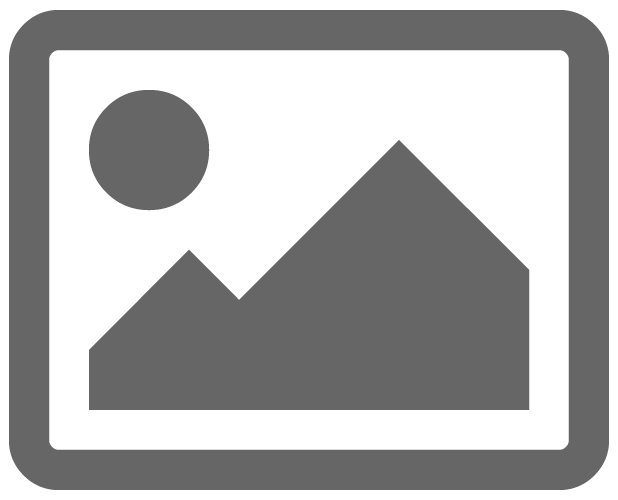
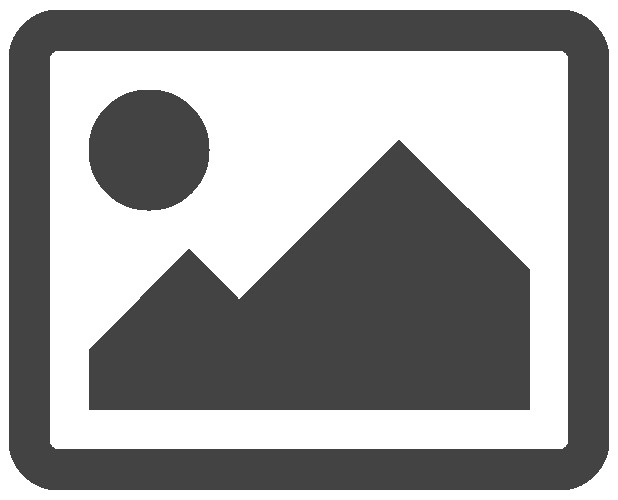
updated placeholder img

diff --git a/src/utils/api.js b/src/utils/api.js
@@ -1,4 +1,4 @@
-export const BASE_URL = "https://europe-central2-western-storm-322812.cloudfunctions.net/store-dsl-strapi"; //"http://46.101.236.251:1337";
+export const BASE_URL = "https://europe-central2-western-storm-322812.cloudfunctions.ne/store-dsl-strapi"; //"http://46.101.236.251:1337";
 
 //Fetch Store main data
 export async function fetchStoreMainData() {

diff --git a/src/components/FeatureCard/FeatureCard.module.css b/src/components/FeatureCard/FeatureCard.module.css
@@ -18,7 +18,7 @@
 }
 
 .FeatureCardBodyWrapper {
-  background: url("https://dummyimage.com/320x240/fff/aaa");
+  background-image: url("https://github.com/mathiasfrey/store-dsl/blob/master/src/media/imageplaceholder.png");
 }
 
 .FeatureCardBody,
